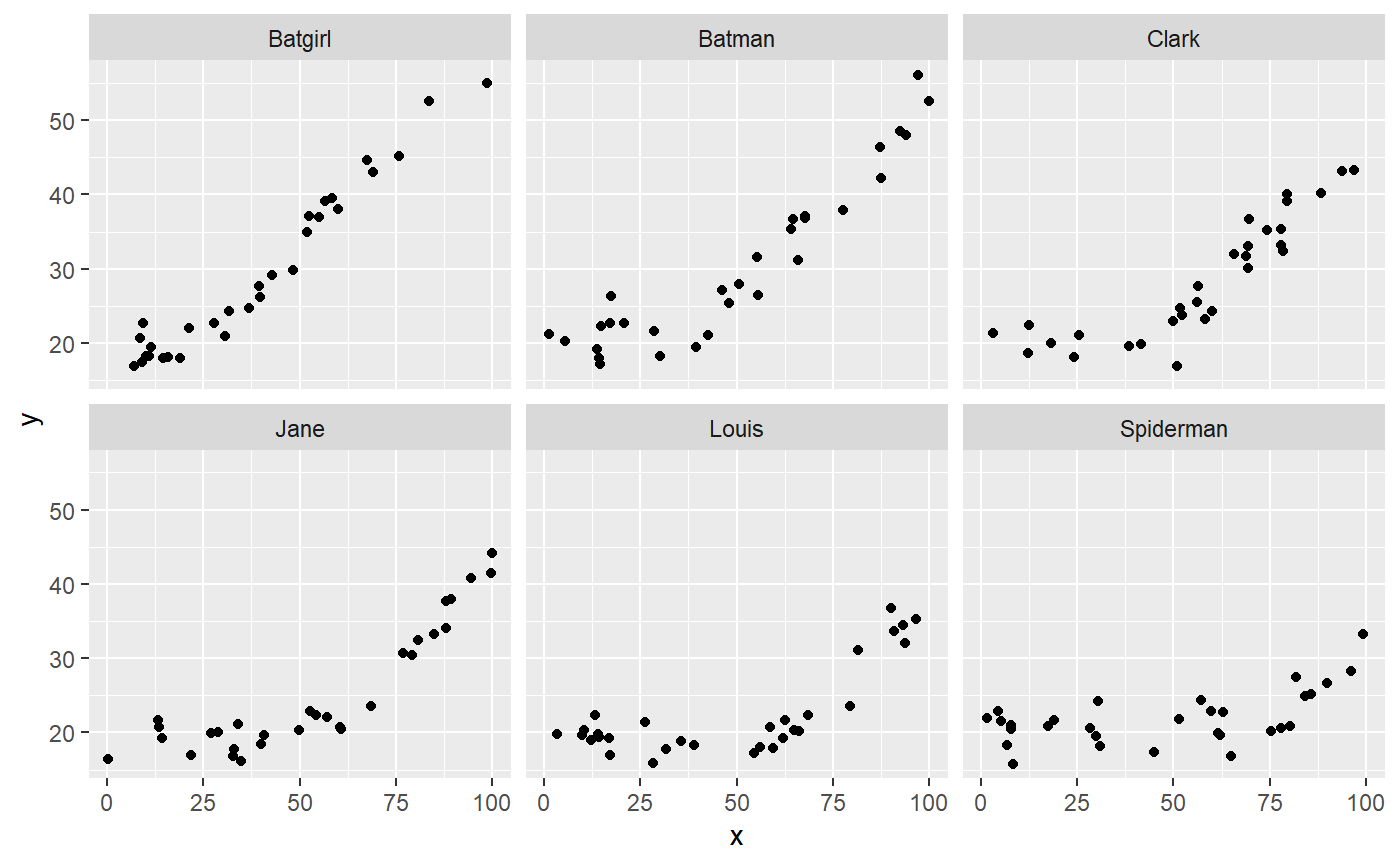
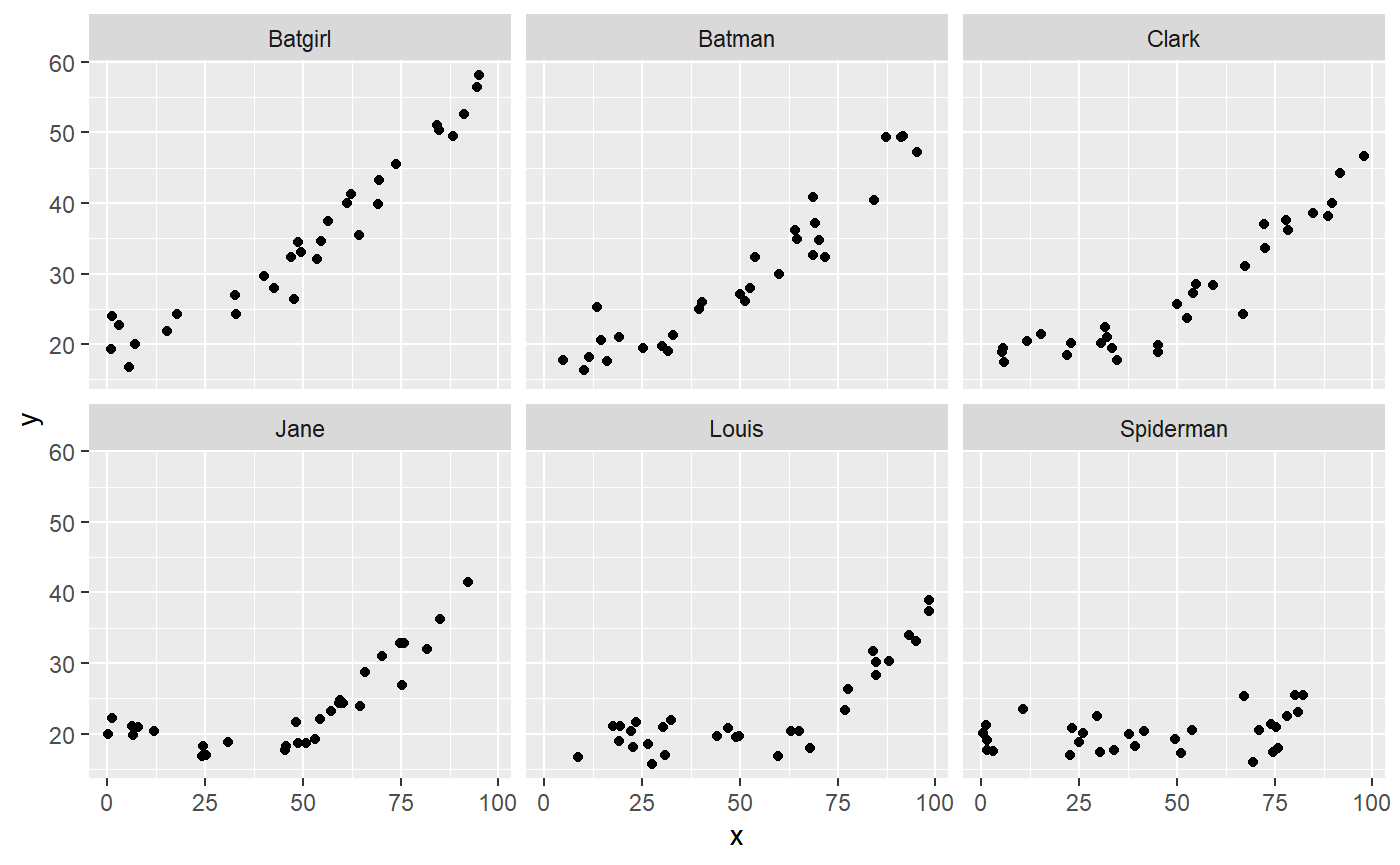
Update varying doc

diff --git a/docs/articles/varying.html b/docs/articles/varying.html
@@ -231,12 +231,12 @@
 
 <span class="fu"><a href="https://rdrr.io/r/utils/head.html">head</a></span>(<span class="no">df</span>)</pre></body></html></div>
 <pre><code>##          x    id id_numeric        y
-## 1 49.74609 Clark          3 22.89226
-## 2 79.54339 Clark          3 40.09721
-## 3 41.46020 Clark          3 19.84519
-## 4 78.40503 Clark          3 32.33580
-## 5 12.12818 Clark          3 18.62098
-## 6 56.30187 Clark          3 27.63758</code></pre>
+## 1 54.13349 Clark          3 27.25136
+## 2 78.46531 Clark          3 36.12037
+## 3 59.20939 Clark          3 28.35439
+## 4 33.33814 Clark          3 19.51316
+## 5  5.95686 Clark          3 17.41523
+## 6 88.76017 Clark          3 38.21824</code></pre>
 <p>Here, we “translated” the <code>id</code> to an offset on the x-axis by multiplying with 10. We subtracted the mean to make the varying effects zero-centered around <code>cp_1</code>. The result:</p>
 <div class="sourceCode" id="cb6"><html><body><pre class="r"><span class="fu"><a href="https://rdrr.io/r/base/library.html">library</a></span>(<span class="no">ggplot2</span>)
 <span class="fu"><a href="https://ggplot2.tidyverse.org/reference/ggplot.html">ggplot</a></span>(<span class="no">df</span>, <span class="fu"><a href="https://ggplot2.tidyverse.org/reference/aes.html">aes</a></span>(<span class="kw">x</span><span class="kw">=</span><span class="no">x</span>, <span class="kw">y</span><span class="kw">=</span><span class="no">y</span>)) +
